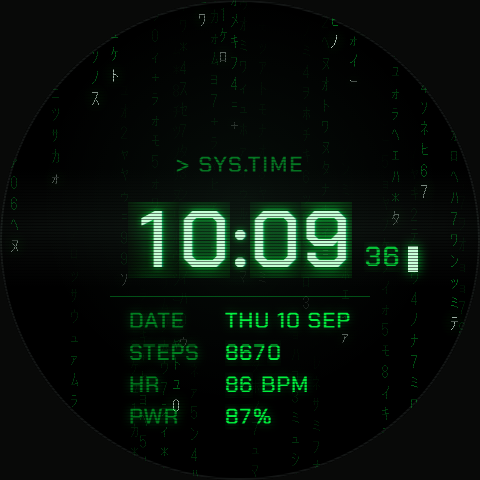
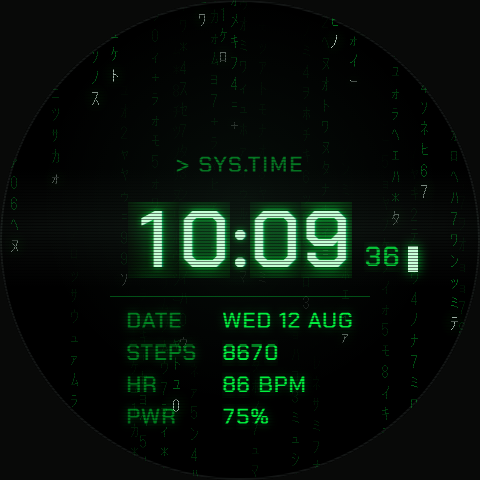
update docs

diff --git a/watchface/index.js b/watchface/index.js
@@ -45,9 +45,10 @@ const FONT = 'fonts/ChakraPetch-Medium.ttf'
 
 const RAIN_FRAMES = 24
 // Tempo des Regens: Spalten wandern 1-3 Glyphenzeilen pro Frame, die
-// Bildrate bestimmt also alles. 8 fps = 3 s pro Schleife. Kleiner = langsamer
-// und nebenbei weniger Rechenlast.
-const RAIN_FPS = 8
+// Bildrate bestimmt also alles. 6 fps = 4 s pro Schleife. Das ist zugleich der
+// wirksamste Performance-Hebel: jedes Frame ist ein 480x480-PNG, das aus dem
+// Flash dekodiert wird. Weniger Bilder pro Sekunde heisst direkt weniger Last.
+const RAIN_FPS = 6
 
 // The design's accent green, pre-blended over black at the opacities used
 // there. Colours are plain numbers, the way @zos/ui takes them.
@@ -95,6 +96,11 @@ let battery = null
 
 let tickTimer = null
 let cursorOn = true
+
+// Schritte koennen im Gehen mehrmals pro Sekunde eintreffen. Die Rueckrufe
+// merken sich nur, dass etwas offen ist; geschrieben wird hoechstens einmal
+// pro Sekunde im Takt. Sonst zeichnet das System bei jedem Schritt neu.
+const pending = { steps: false, heart: false, power: false }
 
 // ---------------------------------------------------------------- helpers
 
@@ -460,15 +466,27 @@ function openSensors() {
 
 function wireSensors() {
   time.onPerMinute(safe('minute', updateMinute))
-  step.onChange(safe('steps', function () {
+  step.onChange(safe('steps', function () { pending.steps = true }))
+  heart.onLastChange(safe('heart', function () { pending.heart = true }))
+  battery.onChange(safe('battery', function () { pending.power = true }))
+}
+
+// Offene Sensorwerte nachziehen, gebuendelt. Laeuft nur, solange der Bildschirm
+// an ist - bei ausgeschaltetem Display waere das Zeichnen ohnehin unsichtbar,
+// und beim Aufwachen holt refreshAll alles nach.
+function flushPending() {
+  if (pending.steps) {
+    pending.steps = false
     setNumber('steps', step.getCurrent() || 0)
-  }))
-  heart.onLastChange(safe('heart', function () {
+  }
+  if (pending.heart) {
+    pending.heart = false
     setNumber('heart', heart.getLast() || 0)
-  }))
-  battery.onChange(safe('battery', function () {
+  }
+  if (pending.power) {
+    pending.power = false
     setNumber('power', battery.getCurrent() || 0)
-  }))
+  }
 }
 
 // ---------------------------------------------------------------- updates
@@ -478,21 +496,28 @@ function dateText() {
   return WEEKDAYS[time.getDay() - 1] + ' ' + pad(time.getDate()) + ' ' + MONTHS[time.getMonth() - 1]
 }
 
-// Everything that changes at most once a minute. Also drives the always-on
-// face, which the system wakes for this event while the timer is stopped.
+// Am Minutenwechsel so wenig wie moeglich schreiben: jeder setProperty-Aufruf
+// zwingt das System zum Neuzeichnen, und darunter laeuft der Vollbild-Regen.
+// Deshalb hier nur, was im sichtbaren Zifferblatt wirklich anders wird.
+// Der Akku hat einen eigenen onChange-Listener und gehoert nicht hierher.
 function updateMinute() {
-  const hours = pad(time.getHours())
-  const minutes = pad(time.getMinutes())
-  const steps = step.getCurrent() || 0
+  if (isAod()) {
+    updateAod()
+    return
+  }
 
-  setDigits('hour', hours)
-  setDigits('minute', minutes)
-  setNumber('power', battery.getCurrent() || 0)
-
+  setDigits('hour', pad(time.getHours()))
+  setDigits('minute', pad(time.getMinutes()))
   setText('date', widgets.date, dateText())
-  setText('aodTime', widgets.aodTime, hours + ':' + minutes)
+}
+
+// Die Always-On-Widgets sind im Normalbetrieb unsichtbar. Sie werden beim
+// Abschalten des Displays einmal nachgezogen und danach im Minutentakt, statt
+// jede Minute im laufenden Betrieb mitgeschrieben zu werden.
+function updateAod() {
+  setText('aodTime', widgets.aodTime, pad(time.getHours()) + ':' + pad(time.getMinutes()))
   setText('aodDate', widgets.aodDate, dateText())
-  setText('aodSteps', widgets.aodSteps, String(steps))
+  setText('aodSteps', widgets.aodSteps, String(step.getCurrent() || 0))
 }
 
 // The only thing that has to happen every second.
@@ -500,6 +525,7 @@ function tick() {
   setDigits('second', pad(time.getSeconds()))
   cursorOn = !cursorOn
   widgets.cursor.setProperty(ui.prop.VISIBLE, cursorOn)
+  flushPending()
 }
 
 function isAod() {
@@ -513,8 +539,13 @@ function isAod() {
 
 function refreshAll() {
   updateMinute()
+  updateAod()
+  pending.steps = false
+  pending.heart = false
+  pending.power = false
   setNumber('steps', step.getCurrent() || 0)
   setNumber('heart', heart.getLast() || 0)
+  setNumber('power', battery.getCurrent() || 0)
   setDigits('second', pad(time.getSeconds()))
 }
 
@@ -548,7 +579,10 @@ WatchFace({
     stage('delegate', function () {
       ui.createWidget(ui.widget.WIDGET_DELEGATE, {
         resume_call: safe('resume', startClock),
-        pause_call: safe('pause', stopClock)
+        pause_call: safe('pause', function () {
+          stopClock()
+          updateAod()
+        })
       })
     })
     stage('clock', startClock)

diff --git a/design/shots/active.html b/design/shots/active.html
@@ -75,9 +75,13 @@ document.getElementById('rain').innerHTML = html;
 var strip = '';
 for (var q = 0; q < 20; q++) strip += (q % 10) + (q < 19 ? '\n' : '');
 
+// Die Klappkante gehoert zum Klapp-Effekt und wird nur mit ?flap gezeigt.
+var flap = location.search.indexOf('flap') >= 0;
+
 function cell(cls, stripCls, d, h, offset) {
   return '<div class="' + cls + '"><div class="' + stripCls + '" style="transform:translateY('
-    + (-(d * h) - (offset || 0)) + 'px)">' + strip + '</div><div class="seam"></div></div>';
+    + (-(d * h) - (offset || 0)) + 'px)">' + strip + '</div>'
+    + (flap ? '<div class="seam"></div>' : '') + '</div>';
 }
 
 // 10:09:36 - the sample time the Zepp OS preview spec asks for. With ?flap the
@@ -107,11 +111,17 @@ function num(value, pad) {
   for (var i = 0; i < s.length; i++) out += cell('cellsm', 'stripsm', +s.charAt(i), 26);
   return '<span class="num">' + out + (pad || '') + '</span>';
 }
+// ?preview=1 schaltet auf die Werte, die die Zepp-OS-Spezifikation fuer das
+// Store-Vorschaubild vorschreibt: Akku 75 %, Datum im Februar oder August.
+var storePreview = location.search.indexOf('preview') >= 0;
+var dateText = storePreview ? 'WED 12 AUG' : 'THU 10 SEP';
+var power = storePreview ? 75 : 87;
+
 document.getElementById('grid').innerHTML =
-  '<span class="lbl">DATE</span><span>THU 10 SEP</span>'
+  '<span class="lbl">DATE</span><span>' + dateText + '</span>'
   + '<span class="lbl">STEPS</span>' + num(8670)
   + '<span class="lbl">HR</span>' + num(86, '<span style="padding-left:8px">BPM</span>')
-  + '<span class="lbl">PWR</span>' + num(87, '<span>%</span>');
+  + '<span class="lbl">PWR</span>' + num(power, '<span>%</span>');
 </script>
 </body>
 </html>

diff --git a/design/shots/aod.html b/design/shots/aod.html
@@ -10,7 +10,7 @@
   .bezel { width: 520px; height: 520px; border-radius: 50%; display: flex; align-items: center; justify-content: center; background: radial-gradient(circle at 50% 28%, #2b2f2d 0%, #161918 55%, #070807 100%); }
   .screen { position: relative; width: 480px; height: 480px; border-radius: 50%; overflow: hidden; background: #000; box-shadow: inset 0 0 0 2px #191c1b; }
   .timewrap { position: absolute; left: 0; right: 0; top: 50%; transform: translateY(-50%); display: flex; justify-content: center; }
-  .time { display: flex; align-items: flex-start; color: transparent; -webkit-text-stroke: 2px rgba(0,255,65,0.95); }
+  .time { display: flex; align-items: flex-start; color: rgba(0,255,65,0.72); }
   .cellbig { position: relative; width: 51px; height: 76px; overflow: hidden; }
   .stripbig { position: absolute; left: 0; top: 0; width: 51px; font-size: 80px; line-height: 76px; text-align: center; }
   .colon { width: 20px; height: 76px; font-size: 80px; line-height: 76px; text-align: center; }

diff --git a/README.md b/README.md
@@ -1,9 +1,8 @@
 # Matrix Watchface
 
 **Der Matrix-Code auf deinem Handgelenk.** Grüne Zeichen regnen über einen
-schwarzen Grund, in der Mitte steht die Uhrzeit als Terminal-Ausdruck. Jede
-Ziffer klappt beim Wechsel durch wie eine Fallblattanzeige: von 9 auf 2 rollt
-sie vorwärts über 0 und 1.
+schwarzen Grund, in der Mitte steht die Uhrzeit als Terminal-Ausdruck, darunter
+Datum, Schritte, Puls und Akkustand. Ein Cursor blinkt im Sekundentakt.
 
 Für die **Amazfit T-Rex 3 Pro 48mm**.
 
@@ -11,25 +10,37 @@ Für die **Amazfit T-Rex 3 Pro 48mm**.
 
 ## Was drin steckt
 
-* **Fallende Katakana** über die ganze Fläche, in Dichte und Tempo einstellbar
-* **Klapp-Ziffern**: Uhrzeit, Schritte, Puls und Akku rollen bei jeder Änderung
-  durch die Zwischenwerte
-* **Phosphor-CRT-Look** mit Scanlines, Nachleuchten und langsam durchlaufendem
-  Helligkeitsband
+* **Fallende Katakana** über die ganze Fläche, 24 Einzelbilder, vier Sekunden
+  pro Schleife, nahtlos geschlossen
+* **Phosphor-CRT-Look** mit Scanlines, Nachleuchten und einem langsam
+  durchlaufenden Helligkeitsband
 * **Kantige Terminal-Schrift** (Chakra Petch), abgeschnittene Ecken statt
   Rundungen
-* **Blinkender Cursor** im Sekundentakt hinter der Uhrzeit
-* **Datum, Schritte, Puls und Akkustand** als Terminal-Zeilen
-* **Sparsame Always-On-Anzeige**: schwarzer Grund, konturierte Ziffern, kein
-  Regen, keine Animation
-
-**Der Klapp-Effekt, festgehalten mitten im Rollen**
-
-![Ziffer im Klappvorgang](docs/screenshots/flap.png)
+* **Uhrzeit exakt in der Bildmitte**, Sekunden kleiner rechts daneben, dahinter
+  der blinkende Cursor
+* **Datum, Schritte, Puls und Akkustand** als Terminal-Zeilen, alle Werte
+  bündig untereinander
+* **Sparsame Always-On-Anzeige**: schwarzer Grund, gedimmte Ziffern an genau
+  derselben Stelle wie im aktiven Zustand, kein Regen, keine Animation
 
 **Die Always-On-Anzeige, nur Uhrzeit, Datum und Schritte**
 
 ![Always-On-Anzeige](docs/screenshots/aod.png)
+
+## Klapp-Ziffern, vorbereitet aber ausgeschaltet
+
+Gedacht ist der Ziffernwechsel als Fallblattanzeige: von 9 auf 2 rollt die
+Ziffer vorwärts über 0 und 1 durch. Der Effekt ist vollständig gebaut, die
+Bildfolgen liegen im Projekt, ein Ziffernschritt dauert 300 Millisekunden.
+
+**Aktuell ist er ausgeschaltet.** Im Alltag wechseln die Ziffern direkt. Der
+Effekt lief auf echter Hardware noch nicht sauber und wartet auf einen weiteren
+Anlauf. Wer ihn ausprobieren will, setzt in `watchface/index.js` die Zeile
+`const USE_FLAP = false` auf `true`.
+
+So sähe er aus, hier mitten im Rollen festgehalten:
+
+![Ziffer im Klappvorgang](docs/screenshots/flap.png)
 
 ## Auf die Uhr bringen
 
@@ -89,11 +100,11 @@ danebenliegt und mitgeliefert werden muss.
 
 ## Stand
 
-Läuft, alles drin. Der Matrix-Regen hat 24 Frames und 3 Sekunden pro Schleife,
-nahtlos. Die Klapp-Ziffern haben eigene Bildfolgen für jede der drei
-Zellengrößen, ein Ziffernschritt dauert 300 Millisekunden.
+Läuft. Der Regen ist drin, die Anzeige steht, die Always-On-Variante auch.
+
+Offen sind zwei Dinge: der Klapp-Effekt braucht noch einen Durchlauf auf echter
+Hardware, und für eine Veröffentlichung im Zepp-Store fehlt eine eigene `appId`
+aus der Entwicklerkonsole. Details dazu in
+[DEVELOPMENT.md](DEVELOPMENT.md).
 
 Es gibt das Ganze auch in Rot, siehe `matrix-watchface-red`.
-
-Wer mitbauen will: die technische Dokumentation steht in
-[DEVELOPMENT.md](DEVELOPMENT.md).

diff --git a/DEVELOPMENT.md b/DEVELOPMENT.md
@@ -328,6 +328,56 @@ sind noch nicht gegen Hardware belegt:
   Klapp-Schritte zu verketten.
 - `time.getDay()` wird als 1 = Montag … 7 = Sonntag angenommen.
 
+## Veröffentlichen
+
+Ablauf laut [Watchface einreichen](https://docs.zepp.com/docs/distribute/watchface/)
+und [Spezifikation](https://docs.zepp.com/docs/watchface/specification/):
+
+1. Auf [console.zepp.com](https://console.zepp.com/) mit dem Zepp-Konto
+   anmelden.
+2. **App anlegen** und damit eine echte `appId` erhalten. Sie wird bei der
+   Registrierung automatisch vergeben und muss in `app.json` eingetragen
+   werden. Die `appId` im Paket **muss** mit der bei der Veröffentlichung
+   angegebenen übereinstimmen.
+3. `zeus build` erzeugt das `.zab`-Paket in `dist/`.
+4. In der Konsole unter **Application Services → Watchface** das Paket
+   hochladen. Die unterstützten Geräte erkennt die Konsole selbst aus dem
+   Paket.
+5. Ausfüllen: Land, Kategorie, Werkerklärung und je Sprache Name,
+   Beschreibung und Vorschaubild.
+6. **Submit for Approval.** Die Prüfung dauert in der Regel 1 bis 5
+   Werktage. Bei Ablehnung steht der Grund dabei, danach `Edit` und erneut
+   einreichen. Nach Freigabe laufen Änderungen über `Update`.
+
+### Vorgaben ans Vorschaubild
+
+Für 480 × 480 verlangt die Spezifikation ein Vorschaubild von **324 × 324**.
+Der Build skaliert `icon.png` selbst darauf herunter.
+
+Der Inhalt ist nicht frei wählbar, diese Beispielwerte sind vorgeschrieben:
+
+| Wert | Vorgabe | im Bild |
+| --- | --- | --- |
+| Uhrzeit | 10:09:36 | ja |
+| Puls | 86 bpm | ja |
+| Schritte | 8670 | ja |
+| Akku | 75 % | ja |
+| Datum | Februar oder August | WED 12 AUG |
+
+Erzeugt mit `design/shots/active.html?icon=1&preview=1`. Ohne `preview=1`
+zeigt dieselbe Seite die Alltagswerte für die README-Screenshots.
+
+### Offen vor dem Einreichen
+
+* **`appId` ist noch die Nummer aus der Vorlage** (20972) und in beiden
+  Projekten dieselbe. Ohne eigene, unterschiedliche IDs aus der Konsole
+  überschreiben sich Grün und Rot gegenseitig auf der Uhr, und die Einreichung
+  scheitert an der Prüfung „appId muss übereinstimmen".
+* **`vender` steht auf `zepp`**, ebenfalls aus der Vorlage. Dort gehört der
+  eigene Entwicklername hin.
+* **Namensrechte klären.** Name und Optik zitieren eine bekannte Filmreihe.
+  Das ist eine Frage an die Prüfung, nicht an den Code.
+
 ## Fehlersuche
 
 Jeder Aufbauschritt und jeder Callback meldet sich im Log, sichtbar in der
